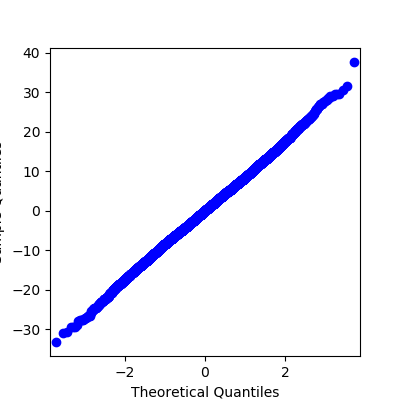
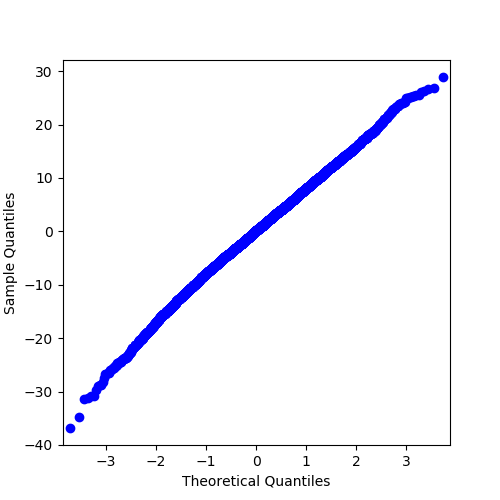
little edit

diff --git a/src/baseline_model.py b/src/baseline_model.py
@@ -6,7 +6,7 @@ from sklearn.preprocessing import StandardScaler
 import matplotlib.pyplot as plt
 
 # list of features to use in baseline model
-features = ["Home", "Tm_QBRating", "Opp_QBRating", "Tm_RshY/A", "Opp_RshY/A"]
+features = ["Home", "Tm_QBRating", "Opp_QBRating", "Tm_RshTD", "Tm_Temperature","Tm_Pass1stD"]
 
 def split_data(df):
     """
@@ -98,16 +98,16 @@ def build_model(train, test):
     mod_fit = model.fit()
 
     # calculate residuals and parameters for analysis
-    # res = mod_fit.resid
+    res = mod_fit.resid
     # print(mod_fit.params)
-    # print(mod_fit.summary())
+    print(mod_fit.summary())
 
     # calculate MAE of model predictions
     # print("MAE: ", mae(mod_fit.predict(X_test), list(y_test)))
 
     # qqplot to analyze if our model as a whole follows linear regression assumptions
-    # sm.qqplot(res).set_size_inches(4,4)
-    # plt.savefig("./src/plots/qqplot.png")
+    sm.qqplot(res).set_size_inches(5,5)
+    plt.savefig("./src/plots/qqplot.png")
     # shows that the model is approximately normal and significant
 
     # return model to allow for predictions

diff --git a/src/model_MLP.py b/src/model_MLP.py
@@ -80,7 +80,7 @@ def train_nn(X_train, X_test, Y_train, y_test, cn):
 
 
     model = MLPRegressor(activation="logistic", solver="adam", early_stopping=True, validation_fraction = 0.2,
-    learning_rate="adaptive", max_iter=200,alpha=0.001,hidden_layer_sizes = (32,64,64,128),random_state = 9999)
+    learning_rate="adaptive", max_iter=300,alpha=0.001,hidden_layer_sizes = (32,64,64,128))
  
     model.fit(X_train, Y_train)
 

diff --git a/run.py b/run.py
@@ -50,7 +50,7 @@ def main(targets):
     else:
         mdl = build_model(train, test)
 
-    y_test_baseline, y_pred_baseline = build_model(train, test)
+    #y_test_baseline, y_pred_baseline = build_model(train, test)
 
     superbowl_pred = pd.read_csv("./src/final_data/superbowls.csv").to_numpy()
     superbowl_pred = mdl.predict(superbowl_pred)
